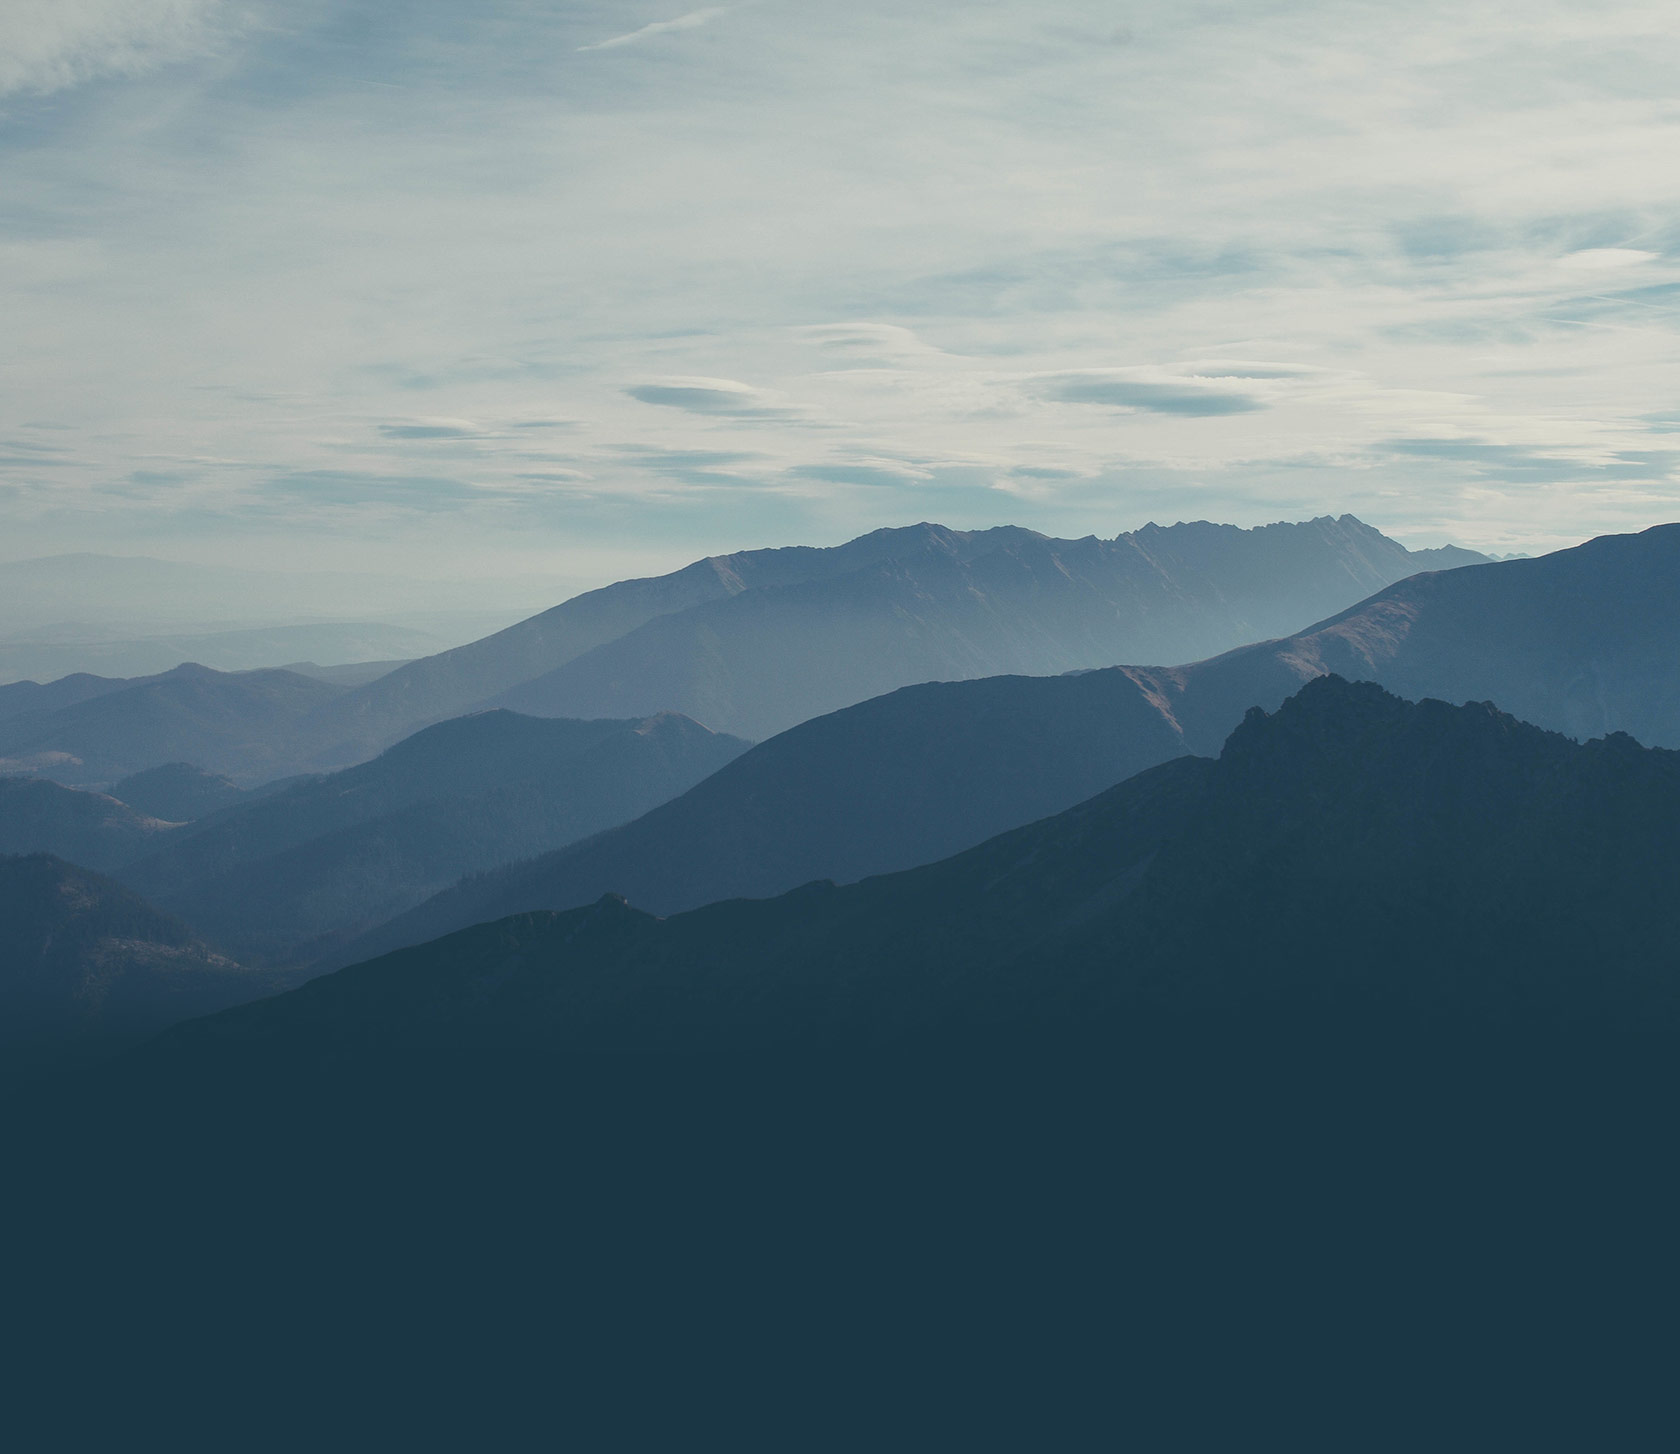
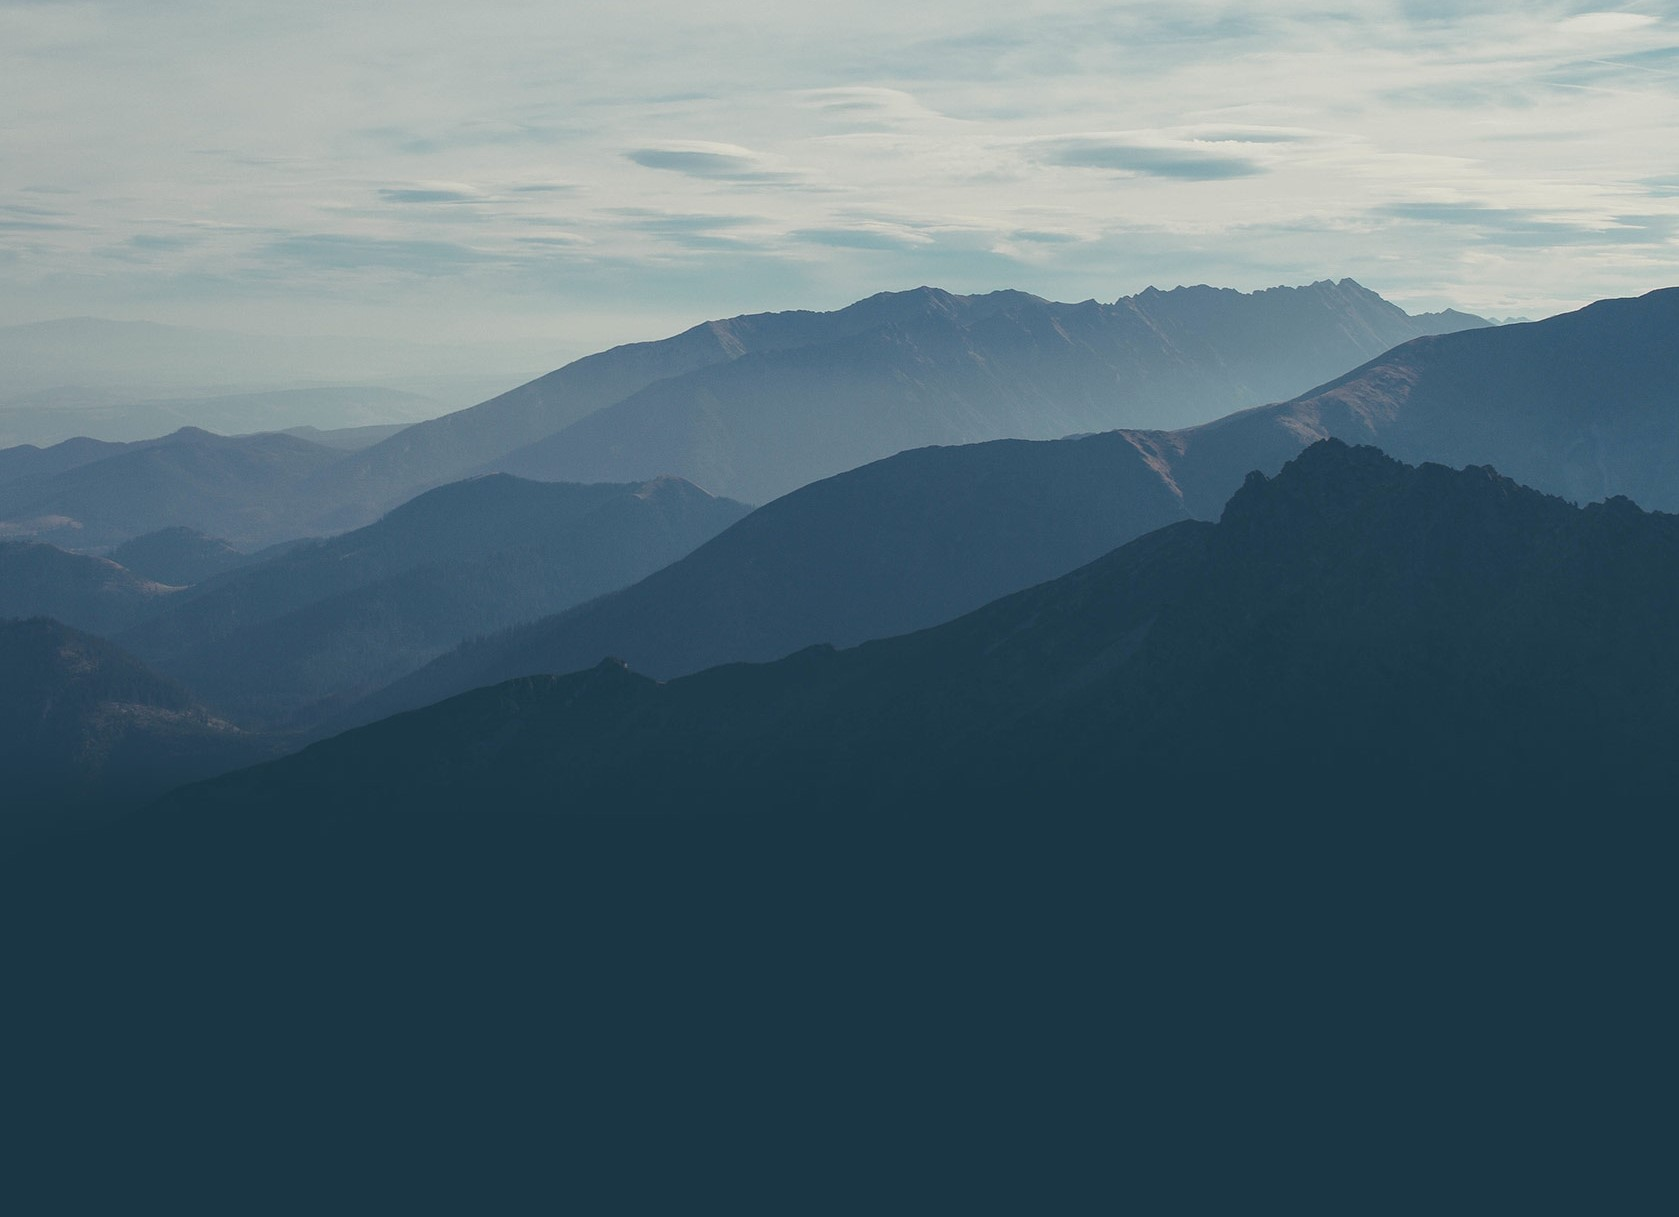
我的同学录界面内容代码

diff --git a/src/main/webapp/WEB-INF/views/classmate/myclassmate.html b/src/main/webapp/WEB-INF/views/classmate/myclassmate.html
@@ -11,19 +11,71 @@
 </head>
 
 <body>
-	
-	<div class="wrapper" id="wrapper"></div>
-	<div class="creat" id="creat"></div>
+		<div class="wrapper" id="wrapper">
+			<a href="#"><img src="../../../static/images/menu.png" alt="图片" id="menu"></a>
+			<div class="container header">
+				<h1>我的同学录</h1>
+				<div id="liner"></div>
+				<h3>如果你无法简洁的表达你的想法，那只说明你还不够了解它。
+  					-- 阿尔伯特·爱因斯坦如果你无法简洁的表达你的想法，那只说明你还不够了解它。
+  					-- 阿尔伯特·爱因斯坦如果你无法简洁的表达你的想法，那只说明你还不够了解它。
+  					-- 阿尔伯特·爱因斯坦</h3>
+  				<a href="#new-classmate"><div class="mousedown"><span class="glyphicon glyphicon-menu-down" id="mousedown"></span></div></a>
+
+  				<div class="new-classmate" id="new-classmate"><a href="#"><h3><u>＋创建新的同学录</u></h3></a></div>
+			</div>
+
+		</div>
+		<div class="creat" id="creat1"></div>
+		<div class="my-classmate" id="my-classmate-1">
+			<div class="container">
+				<img src="../../../static/images/classmate_cover.jpg" alt="图片" id="classmate-cover-1" >
+			</div>
+		</div>
+		<div class="creat" id="creat2"></div>
+		<div class="my-classmate" id="my-classmate-2"></div>
+		<div class="creat" id="creat3"></div>
+		<div class="my-classmate" id="my-classmate-3"></div>
+		<div class="creat" id="creat4"></div>
+		<div class="my-classmate" id="my-classmate-4"></div>
+		<div class="creat" id="creat5"></div>
+		<div class="my-classmate" id="my-classmate-5"></div>
 
 	<script src="../../../static/js/jquery-3.2.1.js"></script>
 	<script src="../../../static/js/bootstrap.min.js"></script>
 
 	<script>
-		
-		$(document).ready(function abc(){
+		function getwidth(){
 			$("#wrapper").css("height",$(window).height()+100+"px");
-			$("#creat").css("border-left",$(window).width()+"px solid rgba(0,0,0,0)");
-		})
+			$("#wrapper").css("width",$(window).width()+"px");
+
+			$(".creat").css("width",$(window).width()+"px");
+			$(".my-classmate").css("width",$(window).width()+"px");
+
+			$("#creat1").css("border-left",$(window).width()+"px solid rgba(0,0,0,0)");
+			$("#creat1").css("border-bottom","100px solid rgba(95,77,147,1)");
+			$("#my-classmate-1").css("background-color","rgba(95,77,147,1)");
+
+			$("#creat2").css("border-right",$(window).width()+"px solid rgba(95,77,147,1)");
+			$("#creat2").css("border-bottom","100px solid rgba(126,87,143,1)");
+			$("#my-classmate-2").css("background-color","rgba(126,87,143,1)");
+
+			$("#creat3").css("border-left",$(window).width()+"px solid rgba(126,87,143,1)");
+			$("#creat3").css("border-bottom","100px solid rgba(161,97,138,1)");
+			$("#my-classmate-3").css("background-color","rgba(161,97,138,1)");
+
+			$("#creat4").css("border-right",$(window).width()+"px solid rgba(161,97,138,1)");
+			$("#creat4").css("border-bottom","100px solid rgba(203,111,133,1)");
+			$("#my-classmate-4").css("background-color","rgba(203,111,133,1)");
+
+			$("#creat5").css("border-left",$(window).width()+"px solid rgba(203,111,133,1)");
+			$("#creat5").css("border-bottom","100px solid rgba(227,118,130,1)");
+			$("#my-classmate-5").css("background-color","rgba(227,118,130,1)");
+			}
+		$(getwidth());
+		$(window).resize(function(){
+			getwidth();
+		});
 	</script>
 </body>
 </html>

diff --git a/src/main/webapp/static/css/myclassmate.css b/src/main/webapp/static/css/myclassmate.css
@@ -4,20 +4,80 @@
 }
 body{
 	background-image: url("../images/bg.jpg");
-	background-size:cover;
 	background-repeat: no-repeat;
+	background-size: 100% 100% cover;
+}
+.header{
+	padding-top: 250px;
 }
 #wrapper{
 	width: 100%;
-	height: 1500px;
 	background-color: #5f4d93;
 	opacity: 0.6;
 }
 
-#creat{
-	width: 100%;
+#menu{
+	width: 40px;
+	height: 40px;
+	position: fixed;
+	top: 5px;
+	right: 15px;
+}
+h1,h3{
+	width: 80%;
+	color: white;
+	position: relative;
+	/*left: 10%;*/
+	/*top: 250px;*/
+}
+
+#liner{
+	height: 2px;
+	width: 80%;
+	background-color: white;
+	position: relative;
+	/*left: 10%;*/
+	/*top: 300px;*/
+}
+.mousedown{
+	width: 50px;
+	height: 50px;
+	position: absolute;
+	bottom: 50px;
+	left: 50%;
+	margin-left: -25px;
+	border: 2px solid white;
+	border-radius: 25px;
+}
+#mousedown{
+	color: white;
+	font-size: 1.7em;
+	position: absolute;
+	top: 24%;
+	left: 24%;
+}
+.new-classmate{
+	width: 250px;
+	position: absolute;
+	top: 95%;
+	padding-top: 80px;
+}
+.new-classmate a{
+	text-decoration: none;
+	border-bottom: 1px solid white;
+}
+
+.creat{
 	height: 100px;
 	background-color: rgba(95,77,147,0.6);
-	/*border-left: 1px solid red;*/
-	border-bottom: 100px solid rgba(95,77,147,1);
+}
+
+.my-classmate{
+	height: 270px;
+}
+
+#classmate-cover-1{
+	width: 270px;
+	height: 270px;
+	border-radius: 175px;
 }
